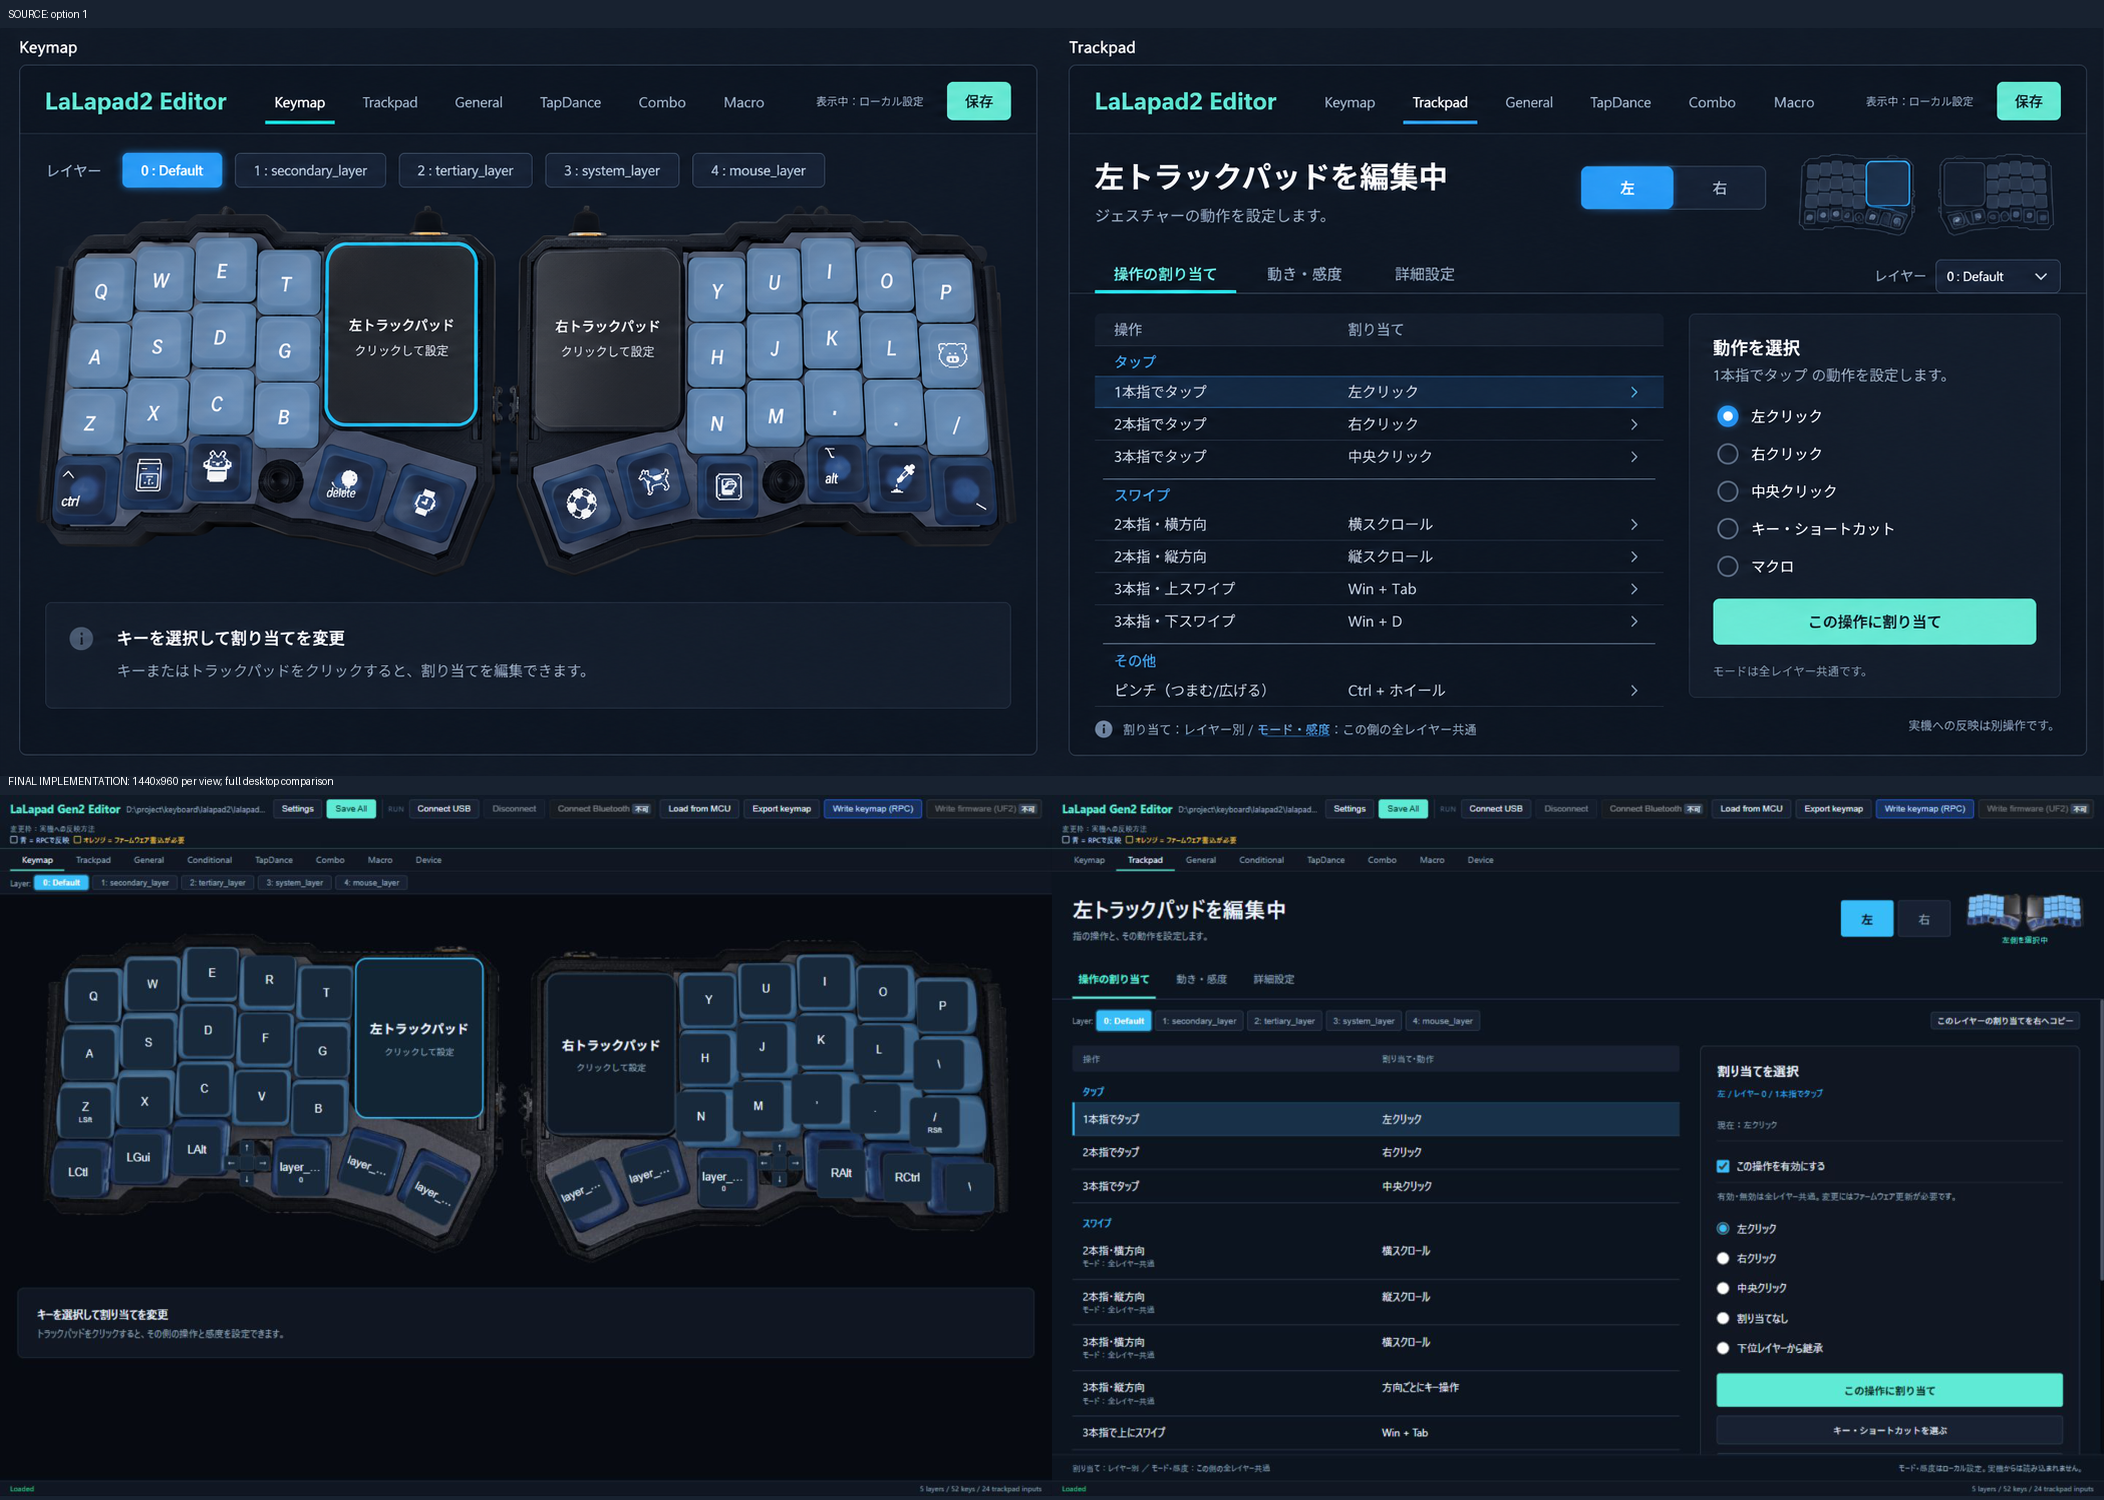
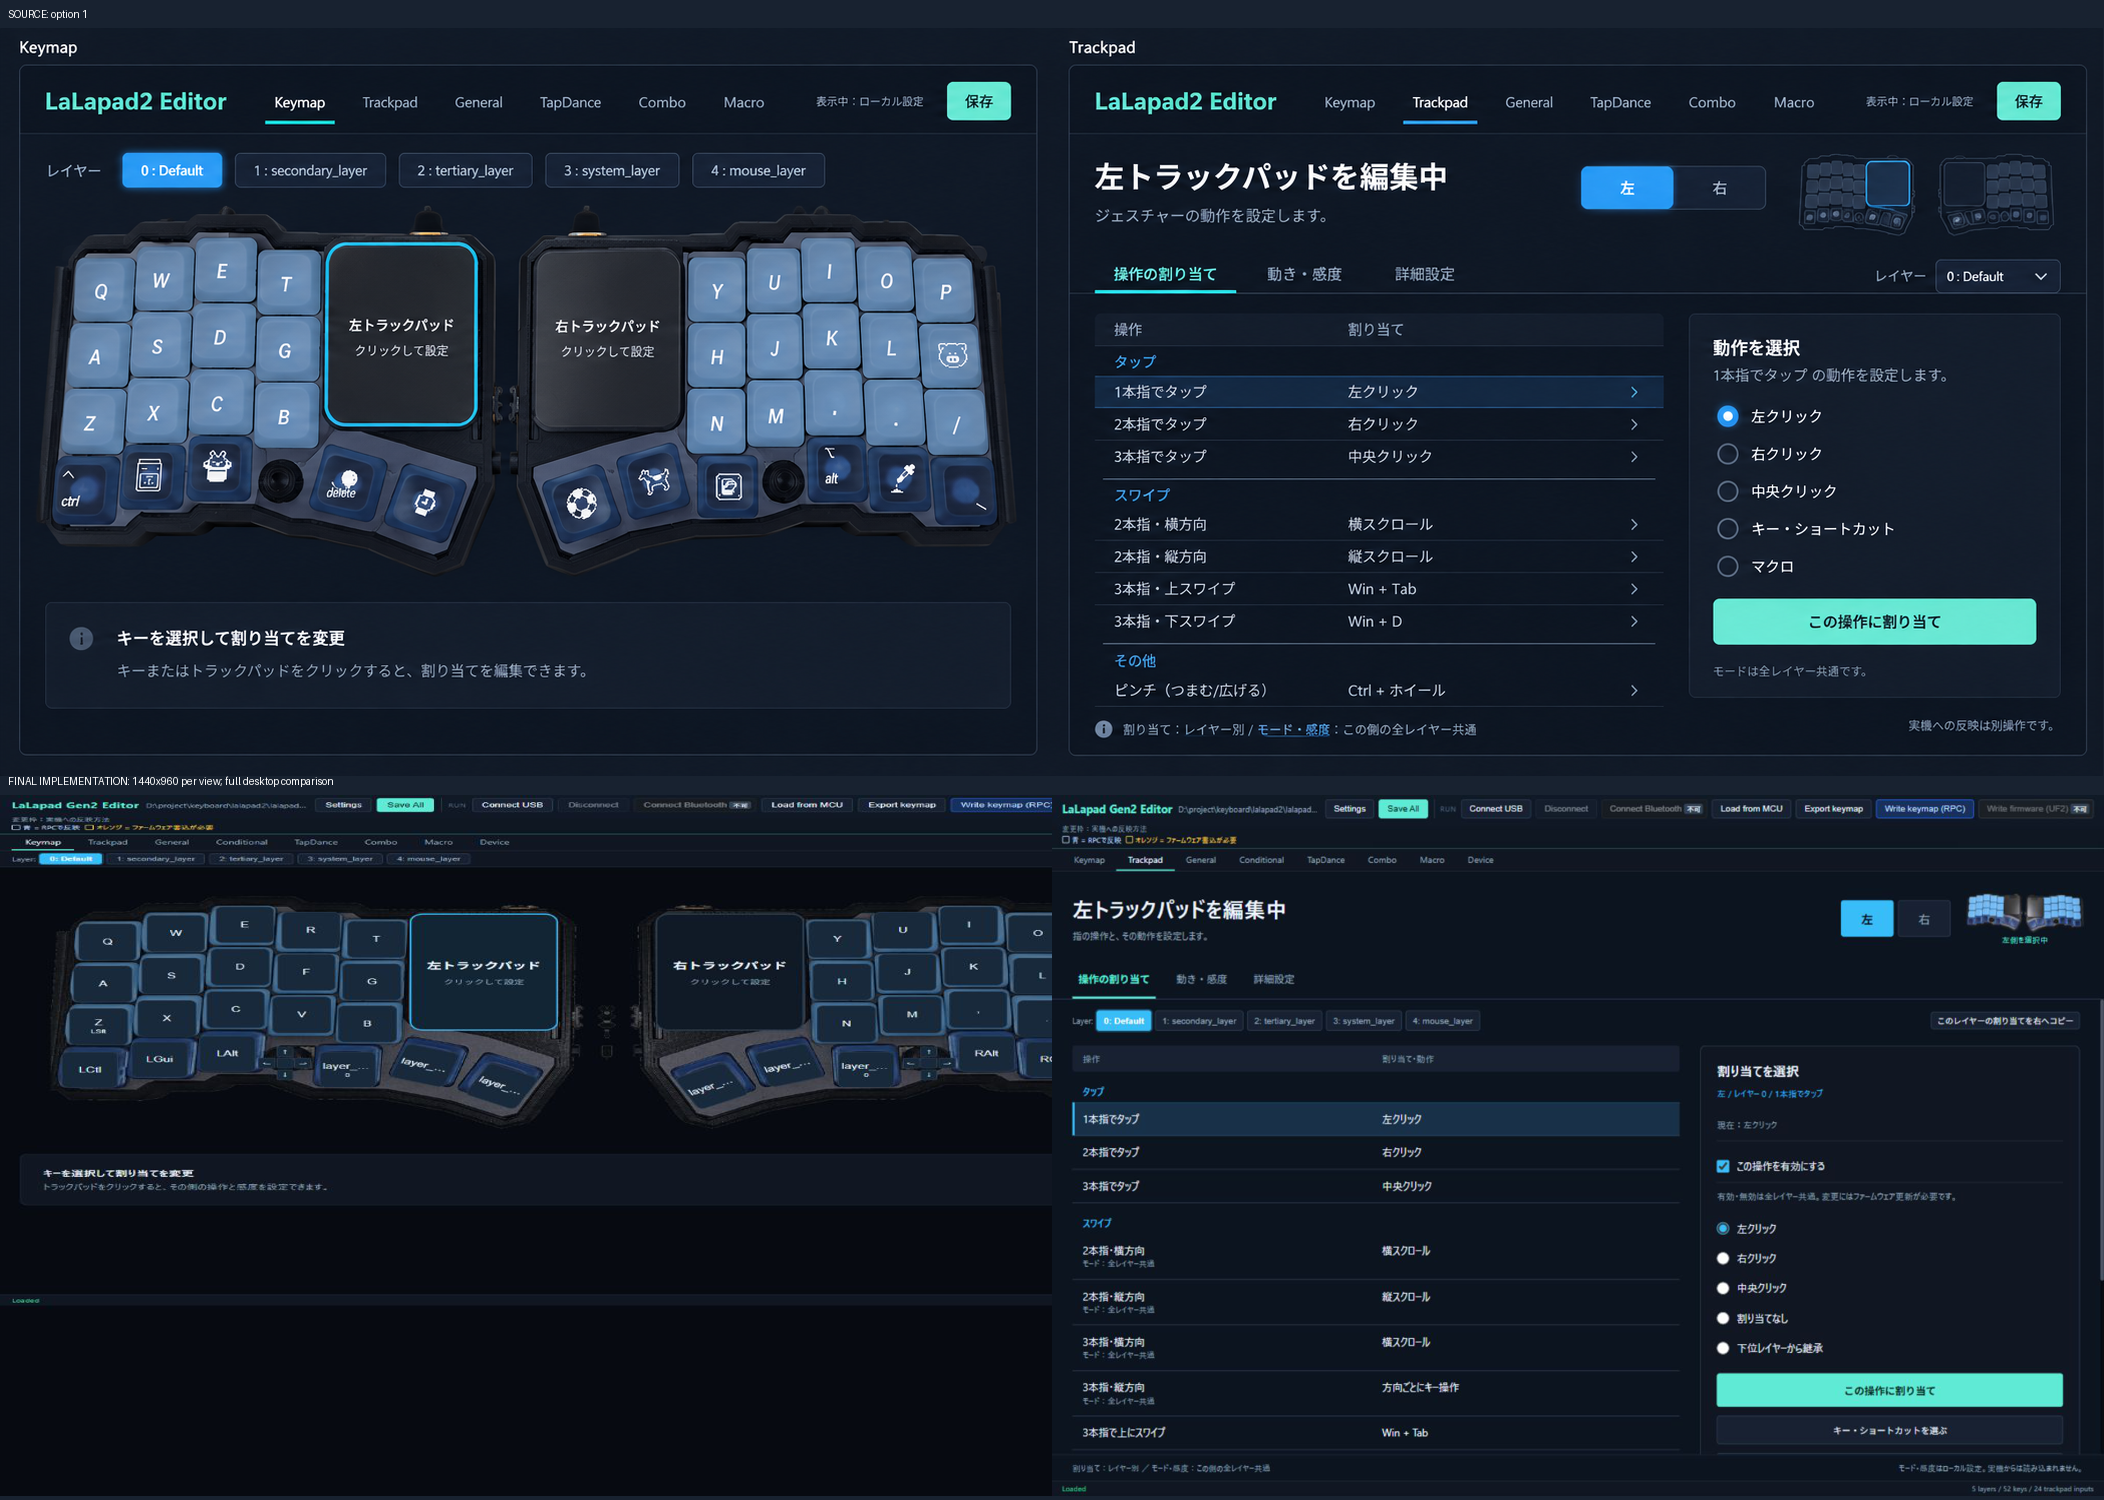
Mirror right keyboard hardware and coordinates

Changed region(s): [[0.0, 0.5213, 0.5252, 0.828], [0.0, 0.8587, 0.1236, 0.92], [0.4325, 0.9813, 0.4943, 1.0]]

diff --git a/static/trackpad-ui.js b/static/trackpad-ui.js
@@ -1,18 +1,28 @@
 /* Presentation only: bindings retain their original firmware positions. */
+const KEYBOARD_VISUAL_WIDTH=1971;
+function mirrorKeymapPosition(pos){
+  return {...pos,x:KEYBOARD_VISUAL_WIDTH-pos.x-pos.w,angle:pos.angle?-pos.angle:pos.angle};
+}
 function keymapVisualPosition(index){
   const topLeft=[[49,113],[170,90],[292,65],[409,80],[525,106]];
-  const topRight=[[1307,121],[1424,99],[1544,84],[1663,104],[1785,133]];
   if(index<30){
-    const col=index%10, row=Math.floor(index/10), [x,y]=(col<5?topLeft:topRight)[col%5];
-    return {x:x-row*8,y:y+row*119,w:104,h:103};
+    const col=index%10, row=Math.floor(index/10);
+    const [x,y]=topLeft[col<5?col:9-col];
+    const pos={x:x-row*8,y:y+row*119,w:104,h:103};
+    return col<5?pos:mirrorKeymapPosition(pos);
   }
-  const thumbs=[[20,474],[143,445],[263,428],[476,474],[614,462,18],[750,519,27],
-    [1050,511,-25],[1190,477,-17],[1340,493],[1580,476],[1715,485],[1842,505]];
-  if(index<42){const [x,y,angle]=thumbs[index-30];return {x,y,w:100,h:100,angle};}
+  const leftThumbs=[[20,474],[143,445],[263,428],[476,474],[614,462,18],[750,519,27]];
+  if(index<42){
+    const leftIndex=index<36?index-30:41-index;
+    const [x,y,angle]=leftThumbs[leftIndex],pos={x,y,w:100,h:100,angle};
+    return index<36?pos:mirrorKeymapPosition(pos);
+  }
   // Matrix order is center/right/down/left/up on left, up/left/down/right/center on right.
-  const cross=[[0,0],[32,0],[0,32],[-32,0],[0,-32],[0,-32],[-32,0],[0,32],[32,0],[0,0]];
-  const [dx,dy]=cross[index-42];
-  return {x:(index<47?400:1489)+dx,y:490+dy,w:30,h:30};
+  const leftCross=[[0,0],[32,0],[0,32],[-32,0],[0,-32]];
+  const rightToLeft={47:46,48:43,49:44,50:45,51:42};
+  const sourceIndex=index<47?index:rightToLeft[index];
+  const [dx,dy]=leftCross[sourceIndex-42],pos={x:400+dx,y:490+dy,w:30,h:30};
+  return index<47?pos:mirrorKeymapPosition(pos);
 }
 function tpNode(tag,className,text){
   const node=document.createElement(tag);
@@ -26,7 +36,8 @@ function tpButton(text,handler,className='btn'){
 function tpSideName(side=state.tpSide){return side==='left'?'左':'右';}
 function appendTrackpadEntrances(keyboard){
   for(const side of ['left','right']){
-    const pos=side==='left'?{x:636,y:85,w:263,h:329}:{x:1028,y:117,w:263,h:329};
+    const leftPos={x:636,y:85,w:263,h:329};
+    const pos=side==='left'?leftPos:mirrorKeymapPosition(leftPos);
     const button=tpButton('',()=>openTrackpad(side),'trackpad-entrance');
     button.dataset.trackpadSide=side;
     button.setAttribute('aria-label',`${tpSideName(side)}トラックパッドの設定を開く`);

diff --git a/test_trackpad_workspace.js b/test_trackpad_workspace.js
@@ -59,6 +59,18 @@ vm.runInContext(`
   const physical=Array.from({length:52},(_,i)=>keymapVisualPosition(i));
   assert.equal(new Set(physical.map(p=>p.x+':'+p.y)).size,52);
   for(const p of physical)assert.ok(p.x>=0&&p.y>=0&&p.x+p.w<=1971&&p.y+p.h<=715);
+  // The right half is the exact horizontal mirror of the cleanly aligned left half.
+  const pairs=[];
+  for(let row=0;row<3;row++)for(let col=0;col<5;col++)pairs.push([row*10+col,row*10+9-col]);
+  for(let i=0;i<6;i++)pairs.push([30+i,41-i]);
+  pairs.push([42,51],[43,48],[44,49],[45,50],[46,47]);
+  for(const [left,right] of pairs){
+    const a=physical[left],b=physical[right];
+    assert.equal(b.x,1971-a.x-a.w,'x mirror '+left+'/'+right);
+    assert.equal(b.y,a.y,'y mirror '+left+'/'+right);
+    assert.equal(b.w,a.w);assert.equal(b.h,a.h);
+    assert.equal((b.angle||0)+(a.angle||0),0,'angle mirror '+left+'/'+right);
+  }
 `,ctx);
 // A stale palette callback cannot edit a different side, layer, or operation.
 vm.runInContext("pickTpCustomBinding({idx:52,label:'1本指でタップ'},'basic')",ctx);

diff --git a/design-qa.md b/design-qa.md
@@ -30,6 +30,7 @@ Desktop and narrow captures have one screenshot pixel per CSS pixel. The full co
 2. Revised comparison (`comparison-desktop-final.png`, `comparison-detail-final.png`): the editor now occupies approximately 38% of the content area, consistent with the mock's hierarchy; primary assignment action is visible. No remaining actionable P0/P1/P2 visual findings.
 3. During interaction checks, the macro shortcut opened Basic because it used `macro` instead of the existing `macro_pal` category ID. Fixed and verified that mc0–mc15 appear. This was a functional finding, not a visual-comparison iteration.
 4. The five-way arrow labels were truncated at their physical positions. Native arrow-key text now uses arrows while accessible names and binding tooltips retain the full meaning. The final Keymap capture verifies this.
+5. Follow-up symmetry correction: the right hardware image is now a pixel-exact horizontal reflection of the aligned left half. All 26 physical control pairs and the two trackpad entrances use the same mirror transform; the final browser measurement differed by at most 0.03125 CSS pixels from the mathematical mirror due to subpixel layout rounding.
 
 ## Required fidelity surfaces
 
@@ -64,6 +65,7 @@ Browser checks on the actual running application:
 - Changing two-finger horizontal mode from keys to scroll hides directional actions, preserves saved Right/Left bindings, and restores them when switched back.
 - Macro picker opens the macro category; switching sides closes the stale picker.
 - Physical Q key edited to A through the existing palette.
+- Hardware raster mirror comparison returned no differing pixels; all right-side key and pad coordinates are derived from their left-side counterparts.
 - Narrow-screen selection reaches the action editor; sensitivity controls remain readable.
 - Captured browser console warnings/errors: none.
 - All browser-only test changes discarded by reload; no Save All, MCU load/write or firmware write performed.
